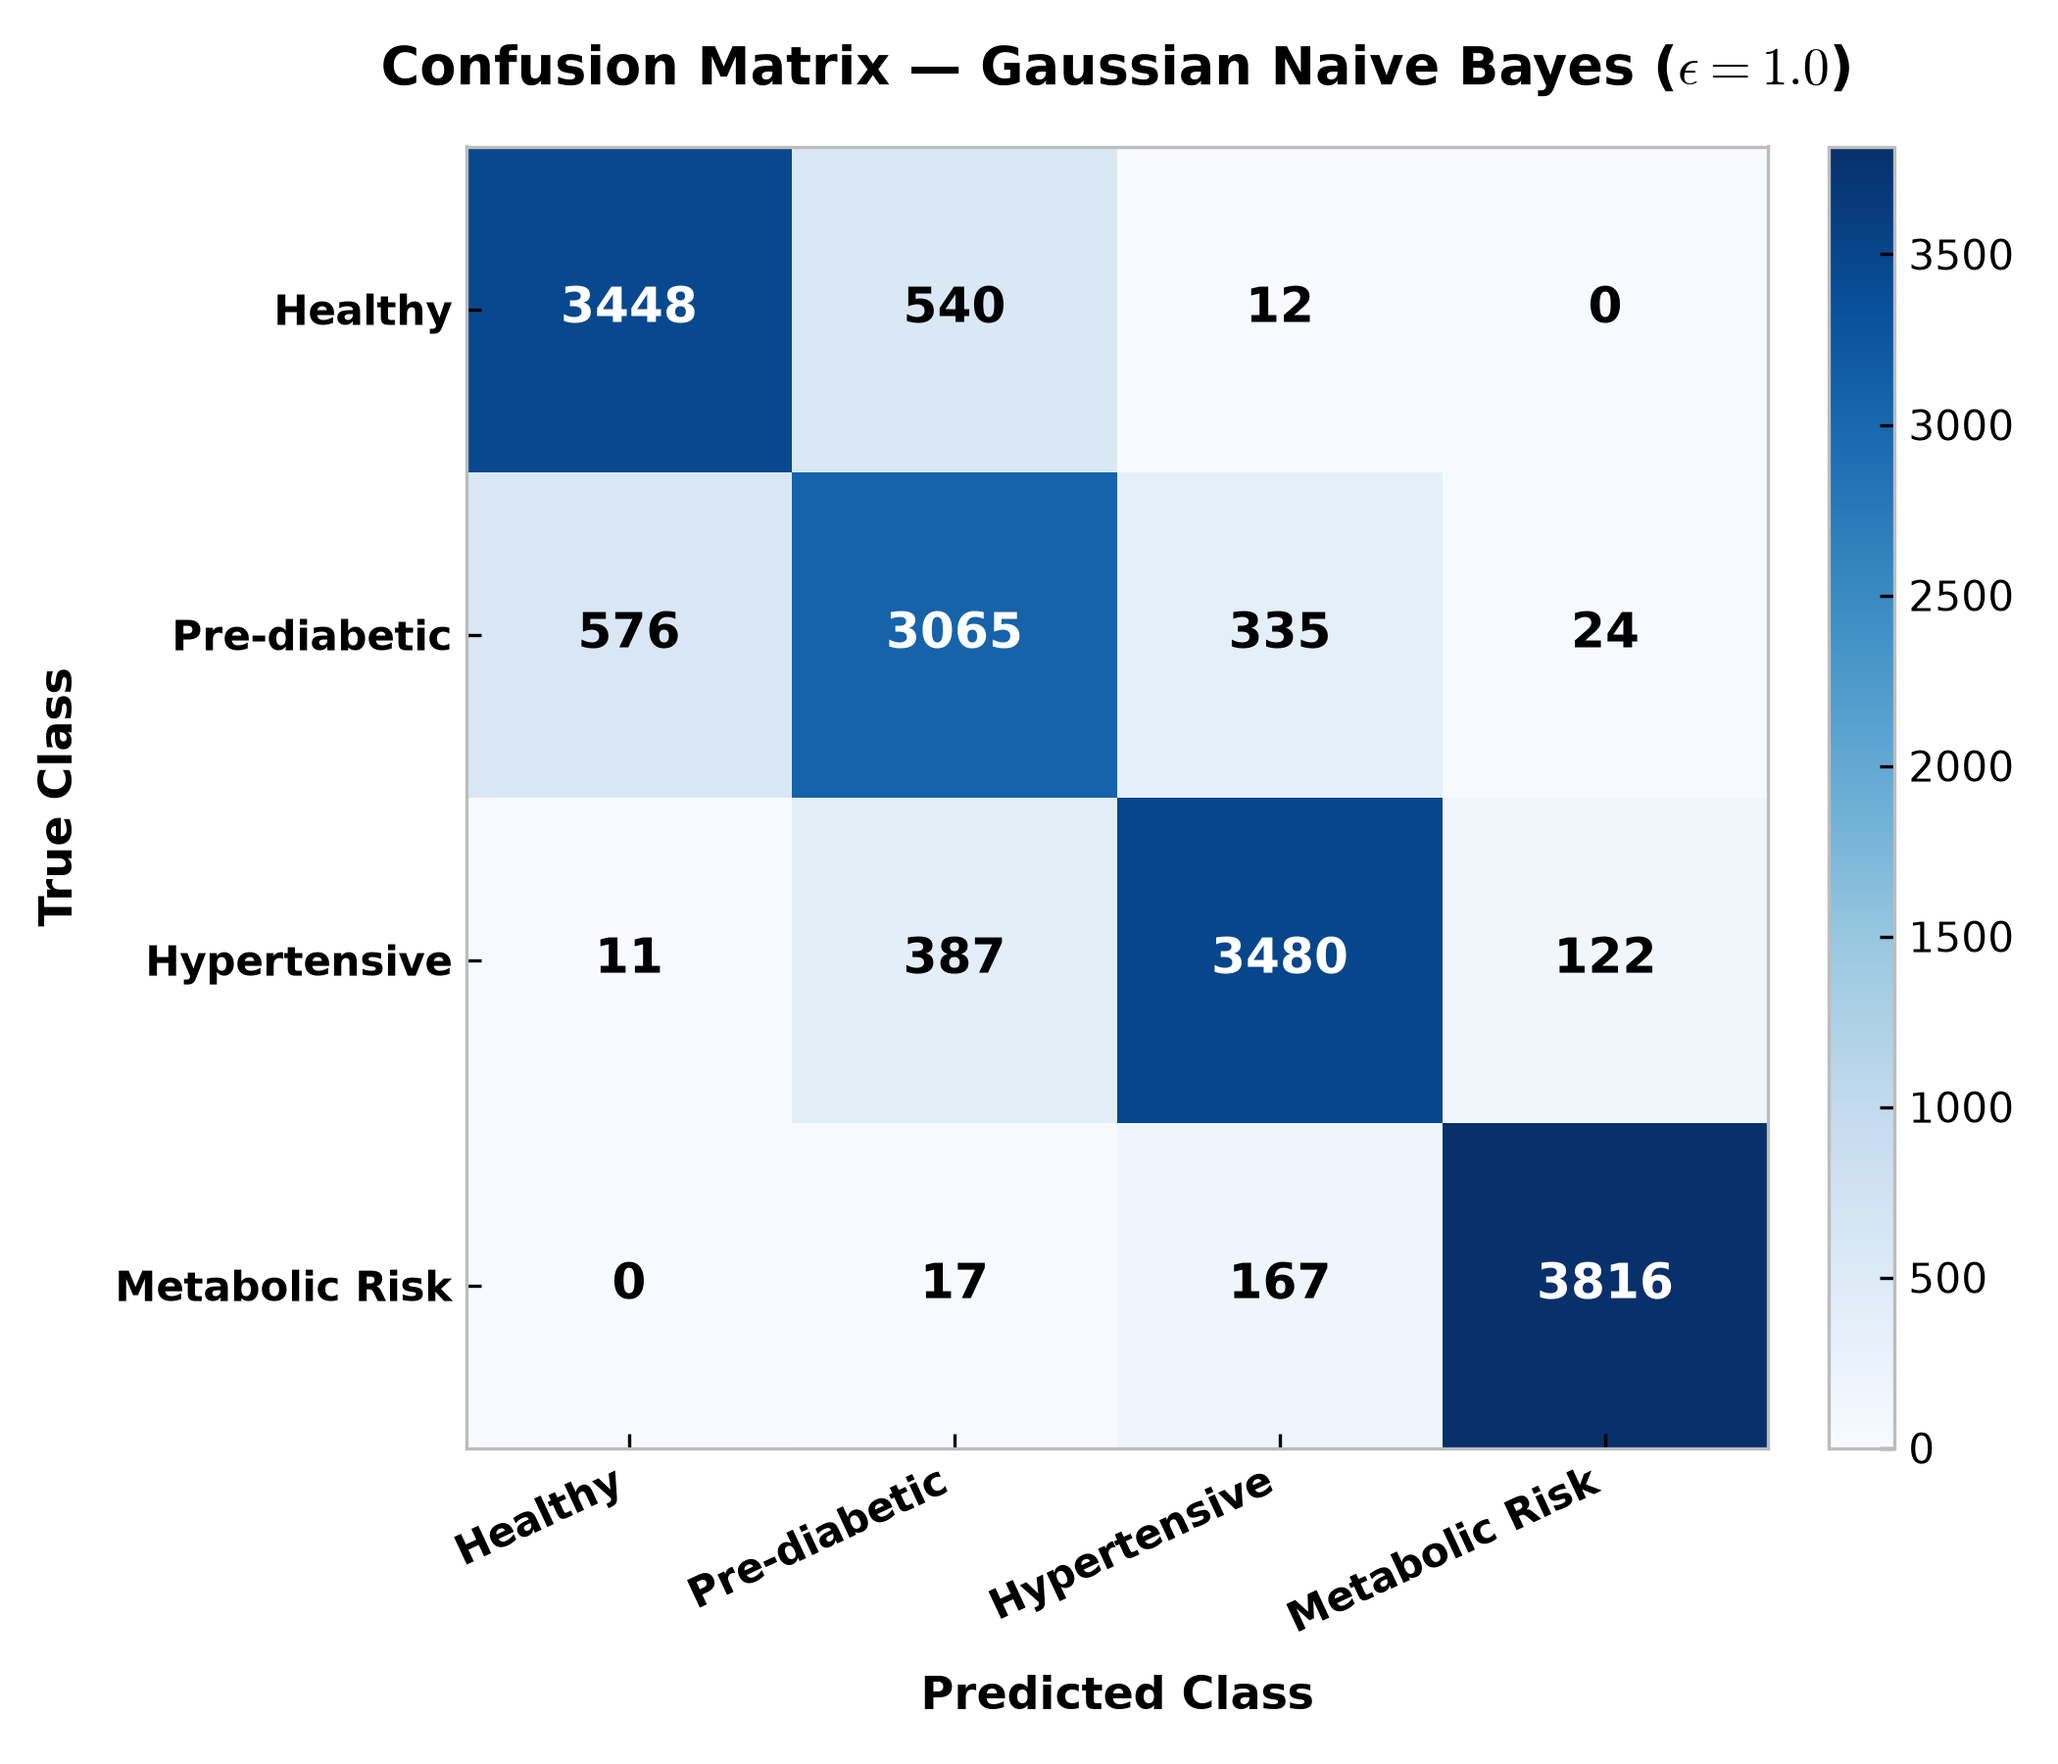
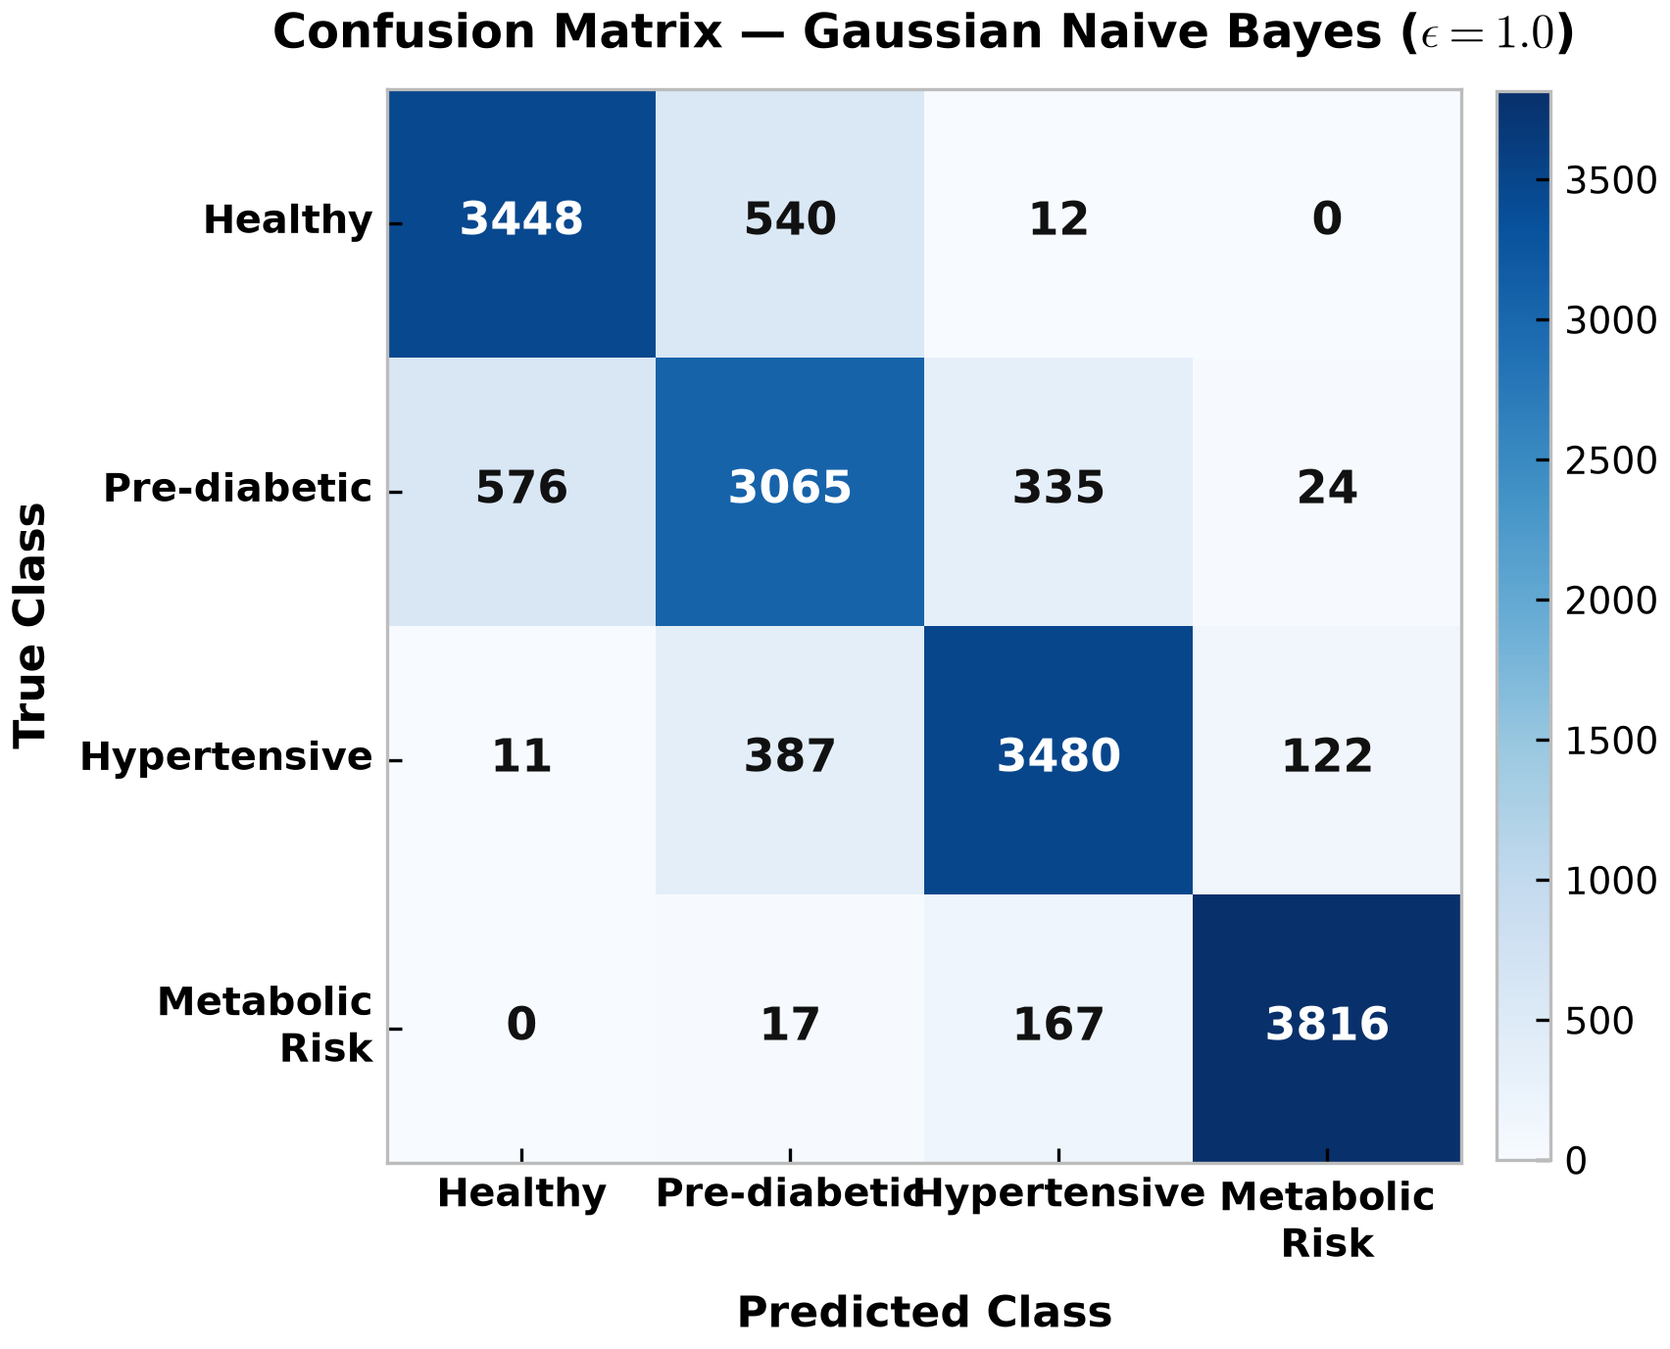
Optimize confusion matrix layout: reduce whitespace and compact labels

diff --git a/generate_fig3_confusion_matrix.py b/generate_fig3_confusion_matrix.py
@@ -1,7 +1,7 @@
 """
 PrivaCare-AI - generate_fig3_confusion_matrix.py
 Generate Fig. 3: Confusion Matrix for Deployed Model (Gaussian Naive Bayes at ε=1.0).
-Trains on actual test set and computes real confusion matrix via sklearn.metrics.
+Compact margins, optimal text alignment, and tight bounding box.
 """
 
 import os
@@ -10,7 +10,6 @@ import numpy as np
 import pandas as pd
 import matplotlib.pyplot as plt
 from sklearn.model_selection import train_test_split
-from sklearn.preprocessing import LabelEncoder
 from sklearn.metrics import confusion_matrix
 import diffprivlib.models as dp
 import warnings
@@ -28,6 +27,9 @@ DOMAIN_BOUNDS = {
     "blood_pressure_systolic": (60, 250)
 }
 CLASS_NAMES = ["Healthy", "Pre-diabetic", "Hypertensive", "Metabolic Risk"]
+# Compact 2-line labels for axes to avoid wide margins
+DISPLAY_LABELS_Y = ["Healthy", "Pre-diabetic", "Hypertensive", "Metabolic\nRisk"]
+DISPLAY_LABELS_X = ["Healthy", "Pre-diabetic", "Hypertensive", "Metabolic\nRisk"]
 EPSILON = 1.0
 SEED = 42
 
@@ -69,37 +71,47 @@ cm = confusion_matrix(y_test, y_pred, labels=[0, 1, 2, 3])
 print("Computed Confusion Matrix (epsilon=1.0):")
 print(cm)
 
-# 5. Plot Heatmap
-fig, ax = plt.subplots(figsize=(7, 6), dpi=300)
+# 5. Plot Heatmap with Compact Proportions & Minimal Surrounding Whitespace
+fig, ax = plt.subplots(figsize=(5.6, 5.0), dpi=300)
 
 im = ax.imshow(cm, interpolation='nearest', cmap=plt.cm.Blues)
-cbar = plt.colorbar(im, ax=ax, fraction=0.046, pad=0.04)
-cbar.ax.tick_params(labelsize=10)
+cbar = plt.colorbar(im, ax=ax, fraction=0.046, pad=0.03)
+cbar.ax.tick_params(labelsize=9)
 
-ax.set_title(r"Confusion Matrix — Gaussian Naive Bayes ($\epsilon = 1.0$)", fontsize=13, fontweight='bold', pad=15)
-ax.set_xticks(np.arange(len(CLASS_NAMES)))
-ax.set_yticks(np.arange(len(CLASS_NAMES)))
-ax.set_xticklabels(CLASS_NAMES, fontsize=10, rotation=25, ha="right", fontweight='bold')
-ax.set_yticklabels(CLASS_NAMES, fontsize=10, fontweight='bold')
+ax.set_title(
+    r"Confusion Matrix — Gaussian Naive Bayes ($\epsilon = 1.0$)",
+    fontsize=11.5,
+    fontweight='bold',
+    pad=10
+)
 
+ax.set_xticks(np.arange(len(DISPLAY_LABELS_X)))
+ax.set_yticks(np.arange(len(DISPLAY_LABELS_Y)))
+ax.set_xticklabels(DISPLAY_LABELS_X, fontsize=9.5, fontweight='bold', ha="center")
+ax.set_yticklabels(DISPLAY_LABELS_Y, fontsize=9.5, fontweight='bold', va="center")
+
+# Annotations inside matrix cells
 thresh = cm.max() / 2.0
 for i in range(len(CLASS_NAMES)):
     for j in range(len(CLASS_NAMES)):
         ax.text(
             j, i, format(cm[i, j], 'd'),
             ha="center", va="center",
-            color="white" if cm[i, j] > thresh else "black",
-            fontsize=12, fontweight='bold'
+            color="white" if cm[i, j] > thresh else "#111111",
+            fontsize=11, fontweight='bold'
         )
 
-ax.set_ylabel('True Class', fontsize=11, fontweight='bold', labelpad=8)
-ax.set_xlabel('Predicted Class', fontsize=11, fontweight='bold', labelpad=8)
+ax.set_ylabel('True Class', fontsize=10.5, fontweight='bold', labelpad=6)
+ax.set_xlabel('Predicted Class', fontsize=10.5, fontweight='bold', labelpad=6)
 ax.grid(False)
 
-plt.tight_layout()
+# Tight layout with minimal outer padding
+plt.tight_layout(pad=0.6)
+
 os.makedirs("visualizations", exist_ok=True)
 output_path = "visualizations/fig3_gaussian_nb_confusion_matrix.png"
-plt.savefig(output_path, dpi=300)
+# Save with tight bounding box to eliminate extra left/right/top/bottom whitespace
+plt.savefig(output_path, dpi=300, bbox_inches='tight', pad_inches=0.04)
 plt.close()
 
-print(f"[+] Successfully generated Fig. 3: {output_path}")
+print(f"[+] Successfully generated compact Fig. 3 at: {output_path}")
